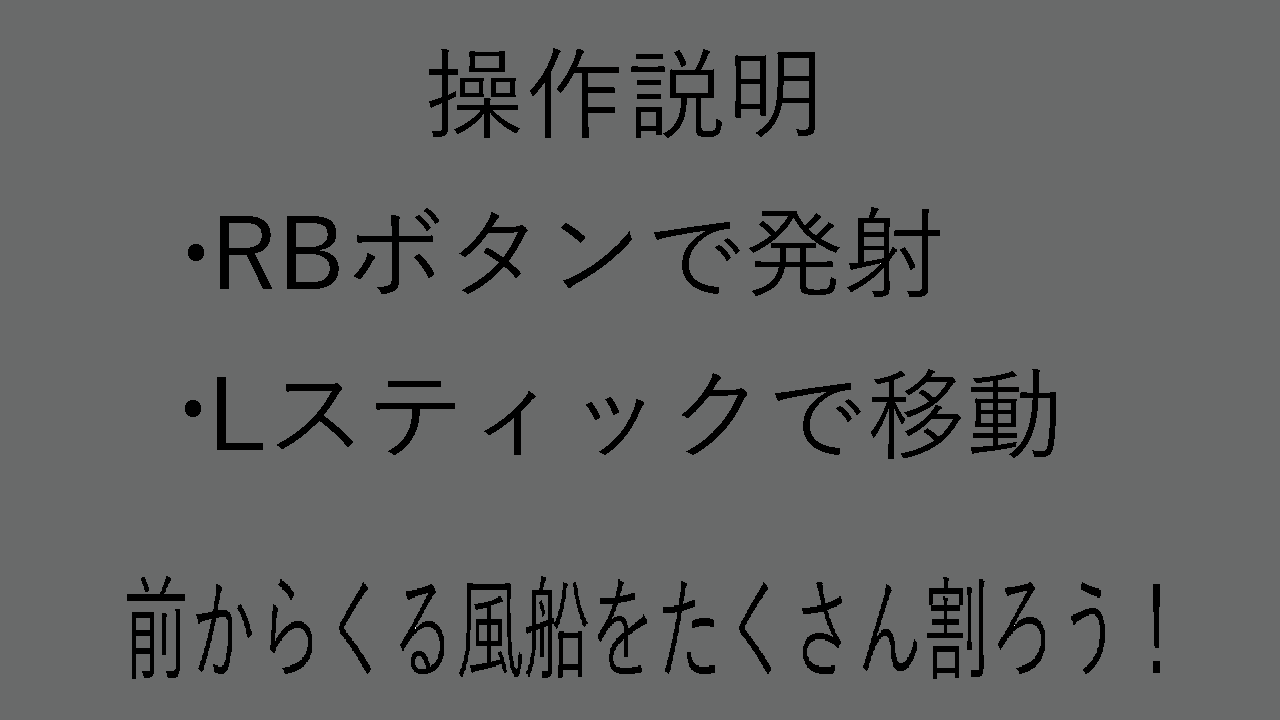
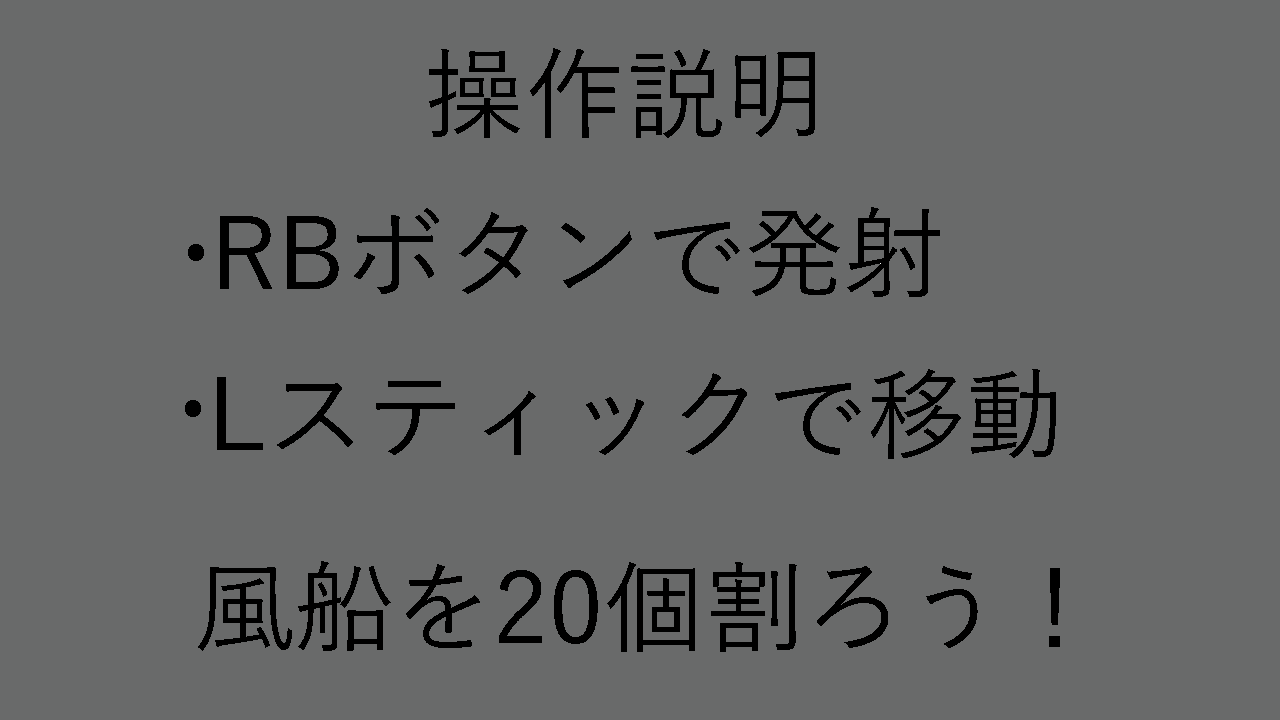
完成

Changed region(s): [[0.0938, 0.7639, 0.9062, 0.9472]]

diff --git a/DirectXGame/scene/GameScene.cpp b/DirectXGame/scene/GameScene.cpp
@@ -1,14 +1,14 @@
 #include "GameScene.h"
+#include "ImGuiManager.h"
 #include "Mymath.h"
 #include "TextureManager.h"
-#include "ImGuiManager.h"
 #include <cassert>
 
 GameScene::GameScene() {}
 
-GameScene::~GameScene() { 
+GameScene::~GameScene() {
 	delete ModelPlayerBullet_;
-	
+
 	for (Balloon* it : balloon_) {
 		delete it;
 	}
@@ -33,9 +33,7 @@ void GameScene::Initialize() {
 	player_ = std::make_unique<Player>();
 	player_->Initialize(
 	    modelFighterBody_.get(), modelFighterHead_.get(), modelFighterL_arm_.get(),
-	    modelFighterR_arm_.get(),ModelPlayerBullet_);
-
-
+	    modelFighterR_arm_.get(), ModelPlayerBullet_);
 
 	// Skydome
 	modelskydome_ = Model::CreateFromOBJ("skydome", true);
@@ -52,18 +50,10 @@ void GameScene::Initialize() {
 	followcamera_->SetTarget(&player_->GetWorldTransform());
 
 	std::random_device seedGenerator;
-	randomEngine = std::mt19937(seedGenerator);
-	 
-	for (uint32_t i = 0; i < 3; ++i)
-	{
-		Balloon* newBalloon = new Balloon();
-		Vector3 position;
-		std::uniform_real_distribution<float> distribution(-50.0f, 50.0f);
-		position.x = distribution(randomEngine);
-		position.y = 0.0f;
-		position.z = distribution(randomEngine);
-		newBalloon->Initialize(balloon, 0, position);
-		balloon_.push_back(newBalloon);
+	randomEngine = std::mt19937(seedGenerator());
+
+	for (int i = 0; i < kStartBalloonCount; ++i) {
+		AddBalloon();
 	}
 }
 
@@ -82,27 +72,30 @@ void GameScene::Update() {
 		return false;
 	});
 
-	//風船
+	if (++balloonSpawnTimer_ > kBalloonSpawnTime) {
+		balloonSpawnTimer_ = 0;
+		AddBalloon();
+	}
+
+	// 風船
 	for (Balloon* it : balloon_) {
 		it->Update();
 	}
 
 	CheckAllCollision();
 
-
 	viewprojection_.matView = followcamera_->GetViewProjection().matView;
 
 	viewprojection_.matProjection = followcamera_->GetViewProjection().matProjection;
 	viewprojection_.TransferMatrix();
 
-	if (hitCount_ >= 3)
-	{
+	if (hitCount_ >= kClearBalloonCount) {
 		ChangeScene = true;
 	}
 
-	ImGui::Begin("GameScene");
-	ImGui::Text("HitCount : %d", hitCount_);
-	ImGui::End();
+	// ImGui::Begin("GameScene");
+	// ImGui::Text("HitCount : %d", hitCount_);
+	// ImGui::End();
 }
 
 void GameScene::Draw() {
@@ -160,7 +153,6 @@ void GameScene::Draw() {
 #pragma endregion
 }
 
-
 void GameScene::CheckAllCollision() {
 
 	// 判定対象AとBの座標
@@ -193,19 +185,30 @@ void GameScene::CheckAllCollision() {
 	}
 }
 
-void GameScene::Reset() { 
-	ChangeScene = false; 
+void GameScene::Reset() {
+	ChangeScene = false;
 	hitCount_ = 0;
-	for (Balloon* it : balloon_)
-	{
+
+	for (Balloon* it : balloon_) {
 		delete it;
 	}
 
 	balloon_.clear();
 	player_->Reset();
-	for (uint32_t i = 0; i < 3; ++i) {
-		Balloon* newBalloon = new Balloon();
-		newBalloon->Initialize(balloon, 0, {i * 10.0f, 0.0f, 0.0f});
-		balloon_.push_back(newBalloon);
+
+	for (int i = 0; i < kStartBalloonCount; ++i) {
+		AddBalloon();
 	}
+}
+
+void GameScene::AddBalloon() {
+	Balloon* newBalloon = new Balloon();
+	Vector3 position = {GetRandomFloat(minX, maxX), 0.0f, GetRandomFloat(minZ, maxZ)};
+	newBalloon->Initialize(balloon, 0, position);
+	balloon_.push_back(newBalloon);
+}
+
+float GameScene::GetRandomFloat(float min, float max) {
+	std::uniform_real_distribution<float> distribution(min, max);
+	return distribution(randomEngine);
 }

diff --git a/DirectXGame/scene/GameScene.h b/DirectXGame/scene/GameScene.h
@@ -1,12 +1,12 @@
 #pragma once
 
 #include "Audio.h"
+#include "Balloon.h"
 #include "DirectXCommon.h"
 #include "FollowCamera.h"
 #include "Input.h"
 #include "Model.h"
 #include "Player.h"
-#include "Balloon.h"
 #include "Sprite.h"
 #include "ViewProjection.h"
 #include "WorldTransform.h"
@@ -46,13 +46,15 @@ public: // メンバ関数
 	/// </summary>
 	void Draw();
 
-	void AddEnemy(Vector3 pos);
+	void AddBalloon();
 
 	void CheckAllCollision();
 
 	bool GetChangeScene() { return ChangeScene; };
 
 	void Reset();
+
+	float GetRandomFloat(float min, float max);
 
 private: // メンバ変数
 	DirectXCommon* dxCommon_ = nullptr;
@@ -89,14 +91,22 @@ private: // メンバ変数
 
 	std::unique_ptr<FollowCamera> followcamera_ = nullptr;
 
-	
 	bool ChangeScene = false;
 	int32_t NextScene = 0;
 
-
 	uint32_t textureHandle_;
 
-	uint32_t hitCount_ = 0;
-
 	std::mt19937 randomEngine;
+
+	const int kStartBalloonCount = 3;
+	const int kClearBalloonCount = 20;
+	int hitCount_ = 0;
+
+	const int kBalloonSpawnTime = 60 * 2;
+	int balloonSpawnTimer_ = 0;
+
+	float minX = -50.0f;
+	float maxX = 50.0f;
+	float minZ = 0.0f;
+	float maxZ = 50.0f;
 };

diff --git a/DirectXGame/Player.cpp b/DirectXGame/Player.cpp
@@ -202,12 +202,12 @@ void Player::UpdateFloatingGimmick() {
 	worldTransformR_arm_.translation_.z =
 		std::sin(floatingParameter_) * -floatingAmplitude;
 
-	ImGui::Begin("Player");
-	ImGui::SliderFloat3("Body Translation", &worldTransformBody_.translation_.x, -10.0f, 10.0f);
-	ImGui::SliderFloat3("Head Translation", &worldTransformHead_.translation_.x, -10.0f, 10.0f);
-	ImGui::SliderFloat3("ArmL Translation", &worldTransformL_arm_.translation_.x, -10.0f, 10.0f);
-	ImGui::SliderFloat3("ArmR Translation", &worldTransformR_arm_.translation_.x, -10.0f, 10.0f);
-	ImGui::End();
+	//ImGui::Begin("Player");
+	//ImGui::SliderFloat3("Body Translation", &worldTransformBody_.translation_.x, -10.0f, 10.0f);
+	//ImGui::SliderFloat3("Head Translation", &worldTransformHead_.translation_.x, -10.0f, 10.0f);
+	//ImGui::SliderFloat3("ArmL Translation", &worldTransformL_arm_.translation_.x, -10.0f, 10.0f);
+	//ImGui::SliderFloat3("ArmR Translation", &worldTransformR_arm_.translation_.x, -10.0f, 10.0f);
+	//ImGui::End();
 
 
 }
